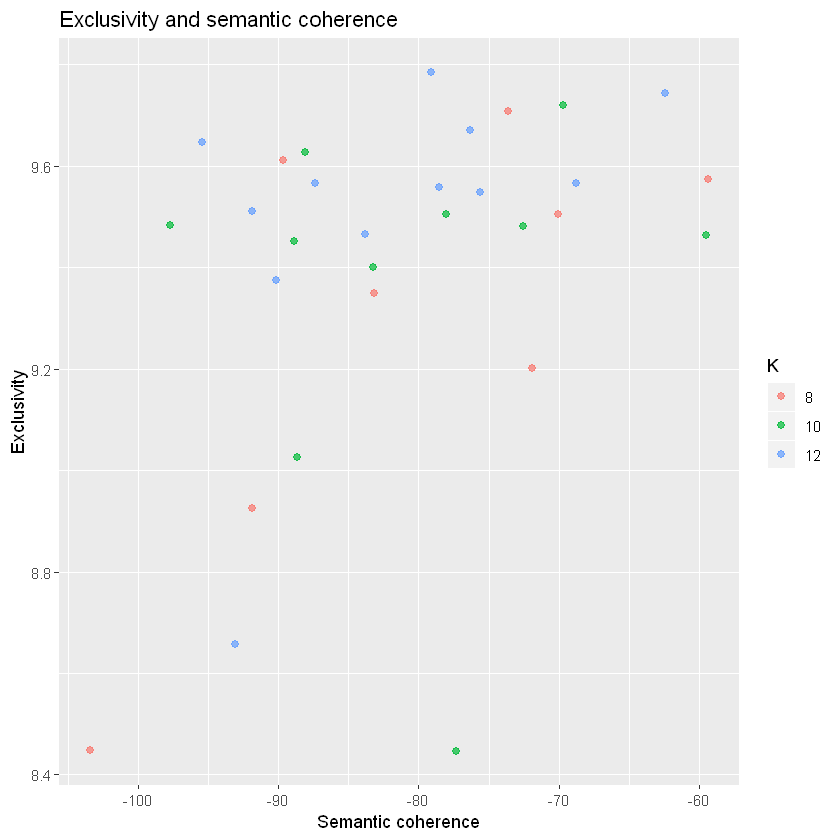
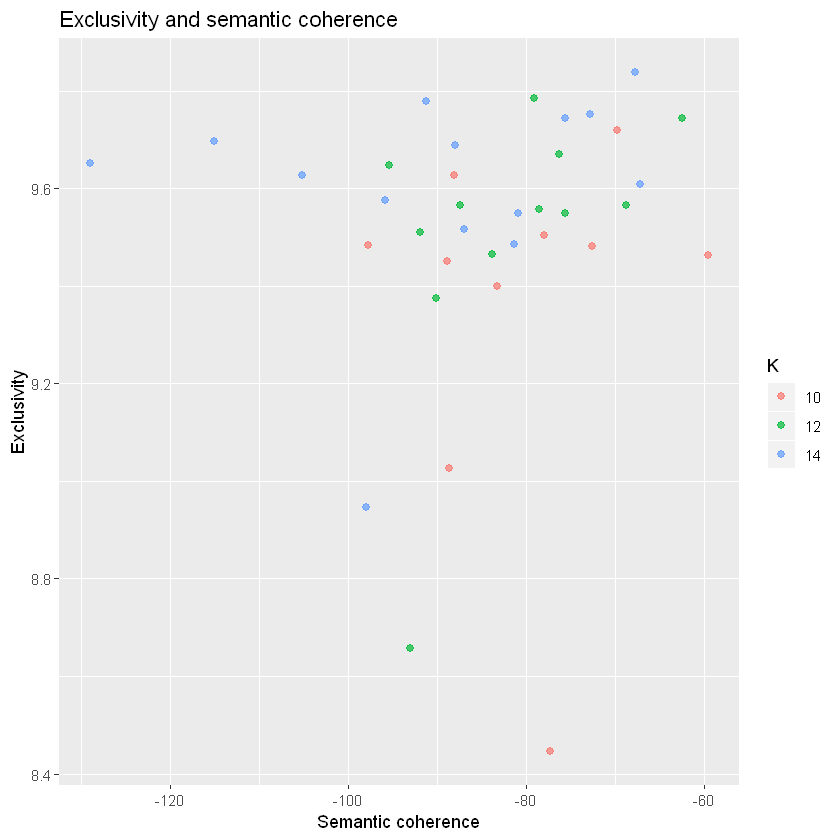
added eric-topic-models

diff --git a/content/post/eric-topic-models/eric_topic_models.md b/content/post/eric-topic-models/eric_topic_models.md
@@ -160,7 +160,7 @@ From the above plots, it looks like 12 is a good number of topics, but let's com
 ```
 k_result %>%
   select(K, exclusivity, semantic_coherence) %>%
-  filter(K %in% c(8, 10, 12)) %>%
+  filter(K %in% c(10, 12, 14)) %>%
   unnest() %>%
   mutate(K = as.factor(K)) %>%
   ggplot(aes(semantic_coherence, exclusivity, color = K)) +
@@ -176,11 +176,11 @@ k_result %>%
 
 From this plot, it looks like k=12 does a good job of balancing semantic coherence and exclusivity.
 
-#### Print out most common words and most frequent words for our BEST model (k=12).
+#### Print out most common words and most frequent words for our BEST model (K=12).
 
 
 ```
-# Use 3 in double brackets because k=12 is the third model in many_models
+# Use 3 in double brackets because K=12 is the third model in many_models
 map(many_models$topic_model, labelTopics)[[3]]
 ```
 
@@ -438,4 +438,4 @@ plot(reg_prep12, covariate = 'fed_gov_v2', topics = 1:12,
 - McFarland, Daniel A., Daniel Ramage, Jason Chuang, Jeffrey Heer, Christopher D. Manning, and Daniel Jurafsky. 2013. “Differentiating Language Usage through Topic Models.” *Poetics* 41(6):607–25.  
 - Mimno, David, Hanna Wallach, Edmund Talley, Miriam Leenders, and Andrew McCallum. 2011. “Optimizing Semantic Coherence in Topic Models.” *Proceedings of the 2011 Conference on Empirical Methods in Natural Language Processing*. 262–72.  
 - Mohr, John W. and Petko Bogdanov. 2013. “Introduction—Topic Models: What They Are and Why They Matter.” *Poetics* 41(6):545–69.  
-- Schoﬁeld, Alexandra, M°ans Magnusson, Laure Thompson, and David Mimno. n.d. “Understanding Text Pre-Processing for Latent Dirichlet Allocation.”
+- Schoﬁeld, Alexandra, Mans Magnusson, Laure Thompson, and David Mimno. n.d. “Understanding Text Pre-Processing for Latent Dirichlet Allocation.”

diff --git a/content/post/eric-topic-models/index.md b/content/post/eric-topic-models/index.md
@@ -176,7 +176,7 @@ From the above plots, it looks like 12 is a good number of topics, but let's com
 ```
 k_result %>%
   select(K, exclusivity, semantic_coherence) %>%
-  filter(K %in% c(8, 10, 12)) %>%
+  filter(K %in% c(10, 12, 14)) %>%
   unnest() %>%
   mutate(K = as.factor(K)) %>%
   ggplot(aes(semantic_coherence, exclusivity, color = K)) +
@@ -192,11 +192,11 @@ k_result %>%
 
 From this plot, it looks like k=12 does a good job of balancing semantic coherence and exclusivity.
 
-#### Print out most common words and most frequent words for our BEST model (k=12).
+#### Print out most common words and most frequent words for our BEST model (K=12).
 
 
 ```
-# Use 3 in double brackets because k=12 is the third model in many_models
+# Use 3 in double brackets because K=12 is the third model in many_models
 map(many_models$topic_model, labelTopics)[[3]]
 ```
 
@@ -454,4 +454,4 @@ plot(reg_prep12, covariate = 'fed_gov_v2', topics = 1:12,
 - McFarland, Daniel A., Daniel Ramage, Jason Chuang, Jeffrey Heer, Christopher D. Manning, and Daniel Jurafsky. 2013. “Differentiating Language Usage through Topic Models.” *Poetics* 41(6):607–25.  
 - Mimno, David, Hanna Wallach, Edmund Talley, Miriam Leenders, and Andrew McCallum. 2011. “Optimizing Semantic Coherence in Topic Models.” *Proceedings of the 2011 Conference on Empirical Methods in Natural Language Processing*. 262–72.  
 - Mohr, John W. and Petko Bogdanov. 2013. “Introduction—Topic Models: What They Are and Why They Matter.” *Poetics* 41(6):545–69.  
-- Schoﬁeld, Alexandra, M°ans Magnusson, Laure Thompson, and David Mimno. n.d. “Understanding Text Pre-Processing for Latent Dirichlet Allocation.”
+- Schoﬁeld, Alexandra, Mans Magnusson, Laure Thompson, and David Mimno. n.d. “Understanding Text Pre-Processing for Latent Dirichlet Allocation.”
